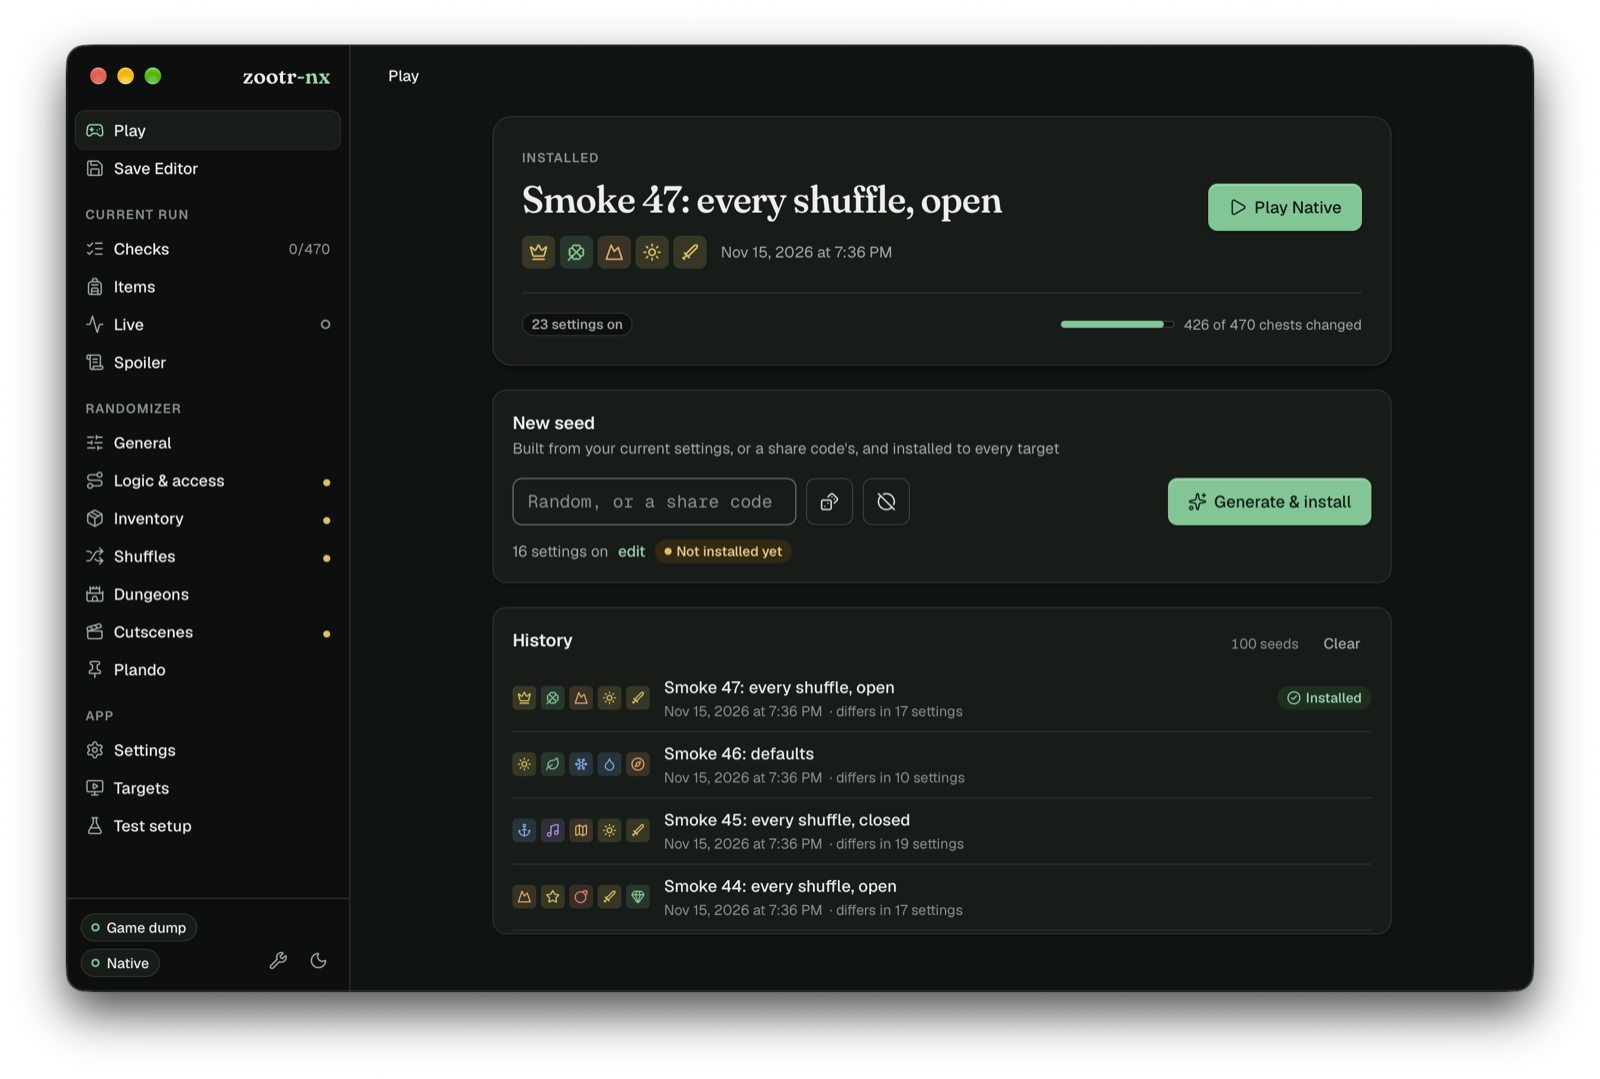
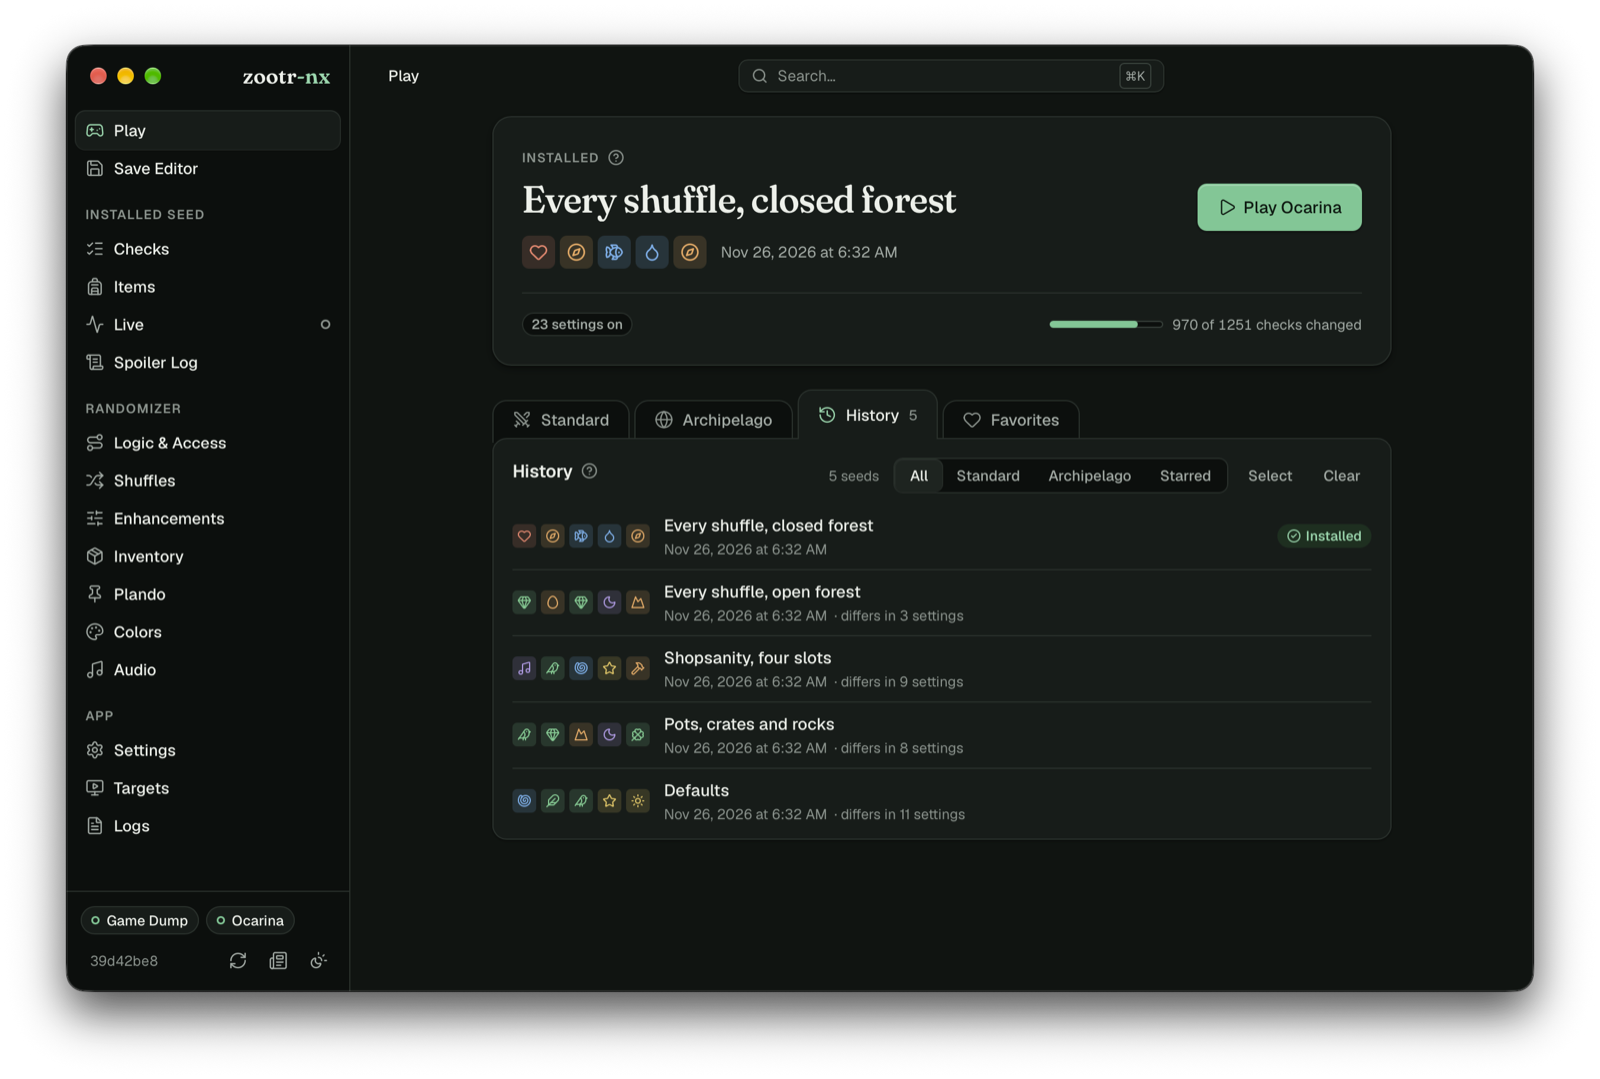
docs(readme): new screenshots and sections for what's shipped since
The README's shots and text dated from before Colors, Audio, Plando and
the Enhancements page, and the shuffle list stopped at pots, crates,
rocks and beehives. The maintainer asked for a refresh.

Screenshots, all retaken in the dev app on a scratch profile (no real
targets, seeds or paths in frame), framed and scaled to 1600 px like the
old ones:

- play.png: the History tab with five seeds, the installed one on top.
- shuffles.png: the Shuffles page as it is now.
- spoiler.png: one check picked, its needs in gold and the checks it
  opens in blue.
- checks.png: the list filtered to Kokiri Forest, with a note on the
  Kokiri Sword chest.
- save-editor.png: a save with hearts, rupees and items stepped up, and
  the changes bar showing.
- enhancements.png (new, replaces settings.png): Comfort collapsed,
  Gameplay and Both Ages open.
- colors.png (new): the three tunics given picked colors. Swatches only:
  with game assets off the page shows no texture or model previews, so
  no game art is in the shot.
- audio.png (new): the area pool on Shuffle, one track with a picked
  song.
- plando.png (new): three items pinned.

live.png, archipelago.png and item-tracker.png stay as they were: each
needs a running game and a connected room to show anything, and the old
shots still match the app.

Text:

- Shuffle more than chests names the loose rupees and hearts, boulders
  and silver rocks, ice-trap chests, hand-written check names and chests
  that match their contents.
[…]

diff --git a/README.md b/README.md
@@ -23,10 +23,14 @@ the result as a mod.
 ## Shuffle more than chests
 
 Songs, NPC gifts, Business Scrubs, shops, cows, Gold Skulltulas, dungeon
-rewards, boss hearts, even pots, crates, rocks and beehives. Each dungeon's
-small keys can come as one key ring, shuffled with the boss keys. Glitchless
-logic makes sure every seed can be beaten, and a share code passes a seed and
-its settings to a friend.
+rewards, boss hearts, even pots, crates, rocks and beehives. The rupees and
+Recovery Hearts lying around, the boulders and silver rocks, and the chests
+that hold ice traps can be checks too. Each dungeon's small keys can come as
+one key ring, shuffled with the boss keys.
+
+Every check has a hand-written name, and a chest's size and look can match what
+it holds. Glitchless logic makes sure every seed can be beaten, and a share
+code passes a seed and its settings to a friend.
 
 ![The Shuffles settings page](assets/shuffles.png)
 
@@ -40,6 +44,14 @@ from Saria". Hosting one takes Archipelago and `znx.apworld`, and the
 
 ![The Archipelago tab, connected to a room, with items arriving from other players](assets/archipelago.png)
 
+## Pin items to checks
+
+Plando puts the items you choose at the checks you choose, and the shuffle
+fills in the rest around them. Save a set of pins under a name to use it
+again.
+
+![The Plando page, with three items pinned](assets/plando.png)
+
 ## Custom models
 
 A song placed in the world shows its own medallion, in the song's color
@@ -47,21 +59,37 @@ with its icon on the face, where the game would show a rupee. Keys take
 their dungeon's color, so a key found far from home says where it belongs.
 zootr builds each model from your dump when it writes a seed.
 
-## Less waiting
+## Enhancements
 
-Skip the cutscenes and tutorials, open every chest the quick way, and keep
-Navi quiet unless you ask her.
+Comfort skips the cutscenes and tutorials, opens every chest the quick way,
+and keeps Navi quiet unless you ask her. Gameplay speeds Link up in the Bunny
+Hood, brings out the night Gold Skulltulas by day, and makes pots and grass
+come back each time Link enters an area. Both Ages lets either Link use each
+item, one toggle per item.
 
-![The General settings page](assets/settings.png)
+![The Enhancements page, with Gameplay and Both Ages open](assets/enhancements.png)
+
+## Cosmetics
+
+Colors recolors Link's tunics, his gear, Navi and the HUD. Pick a color,
+draw one at random, or keep the game's.
+
+![The Colors page, with the three tunics recolored](assets/colors.png)
+
+Audio shuffles the music within each pool (area, battle, event, fanfare,
+ocarina), Link's voice and the NPCs' voices. Any track can keep its own song
+or take one you pick. Both save as named sets.
+
+![The Audio page, with the area music shuffled and one song picked](assets/audio.png)
 
 ## A spoiler that shows its working
 
-Rounds lay out what Link can reach after each find. Pick a check to see
-what it needs, and Way of the Hero stars everything Link can't finish
-without. The installed seed's stays covered until you reveal it, so a
+Rounds lay out what Link can reach after each find. Pick a check and what
+it needs glows gold, and what it opens up glows blue. Way of the Hero stars
+everything Link can't finish without. The installed seed's stays covered until you reveal it, so a
 glance doesn't spoil the run.
 
-![The spoiler's rounds, with one check's needs below](assets/spoiler.png)
+![The spoiler's rounds, with one check picked and the checks it opens in blue](assets/spoiler.png)
 
 ## Track the run
 
@@ -75,9 +103,9 @@ dump if you turn that on.
 
 The checks list reads the running game and ticks each check off as Link
 gets it, with nothing to click. What a check holds stays hidden until
-then.
+then. Filter it by area or name, and leave yourself a note on any check.
 
-![The checks list, by area](assets/checks.png)
+![The checks list, filtered to Kokiri Forest, with a note on one check](assets/checks.png)
 
 ## Edit a save
 
